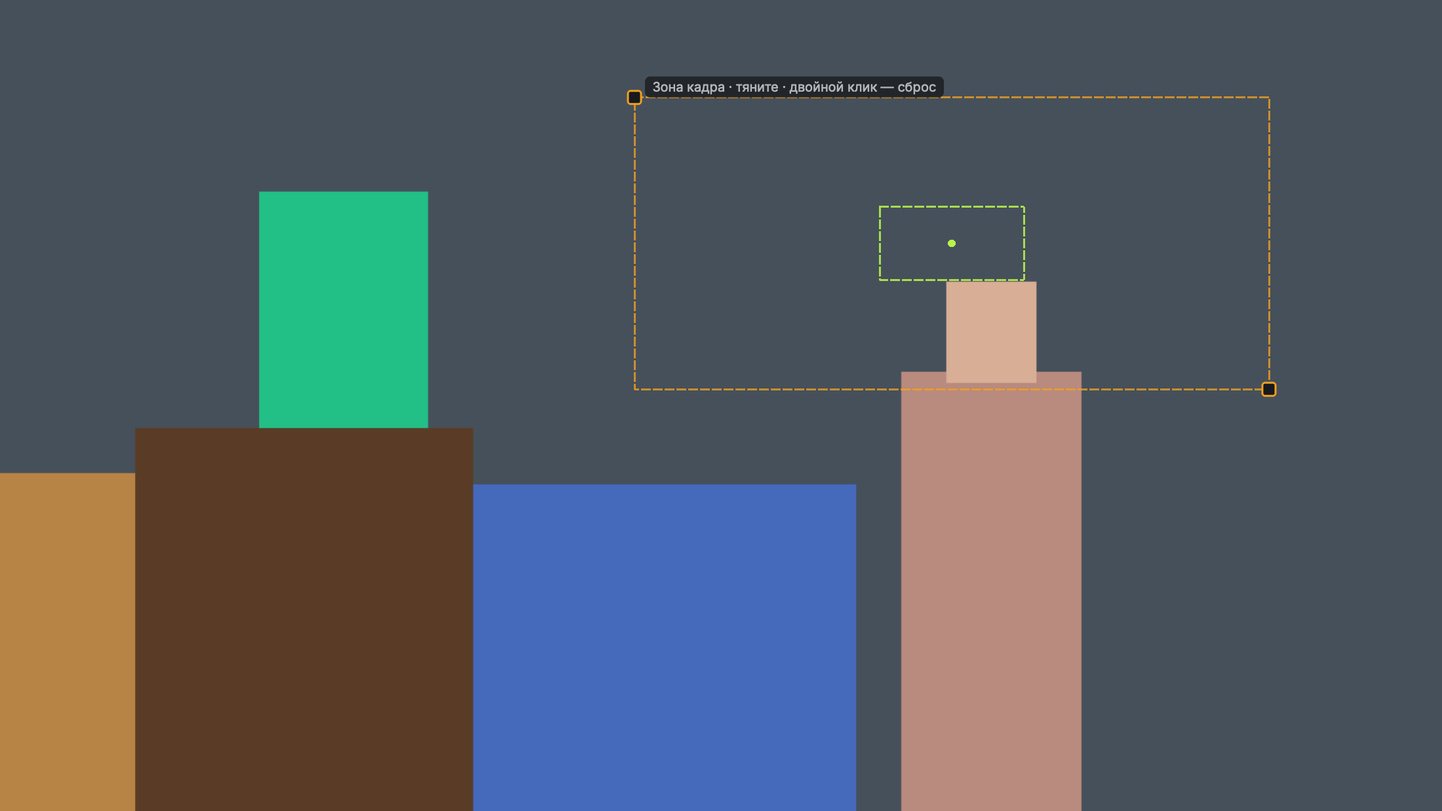
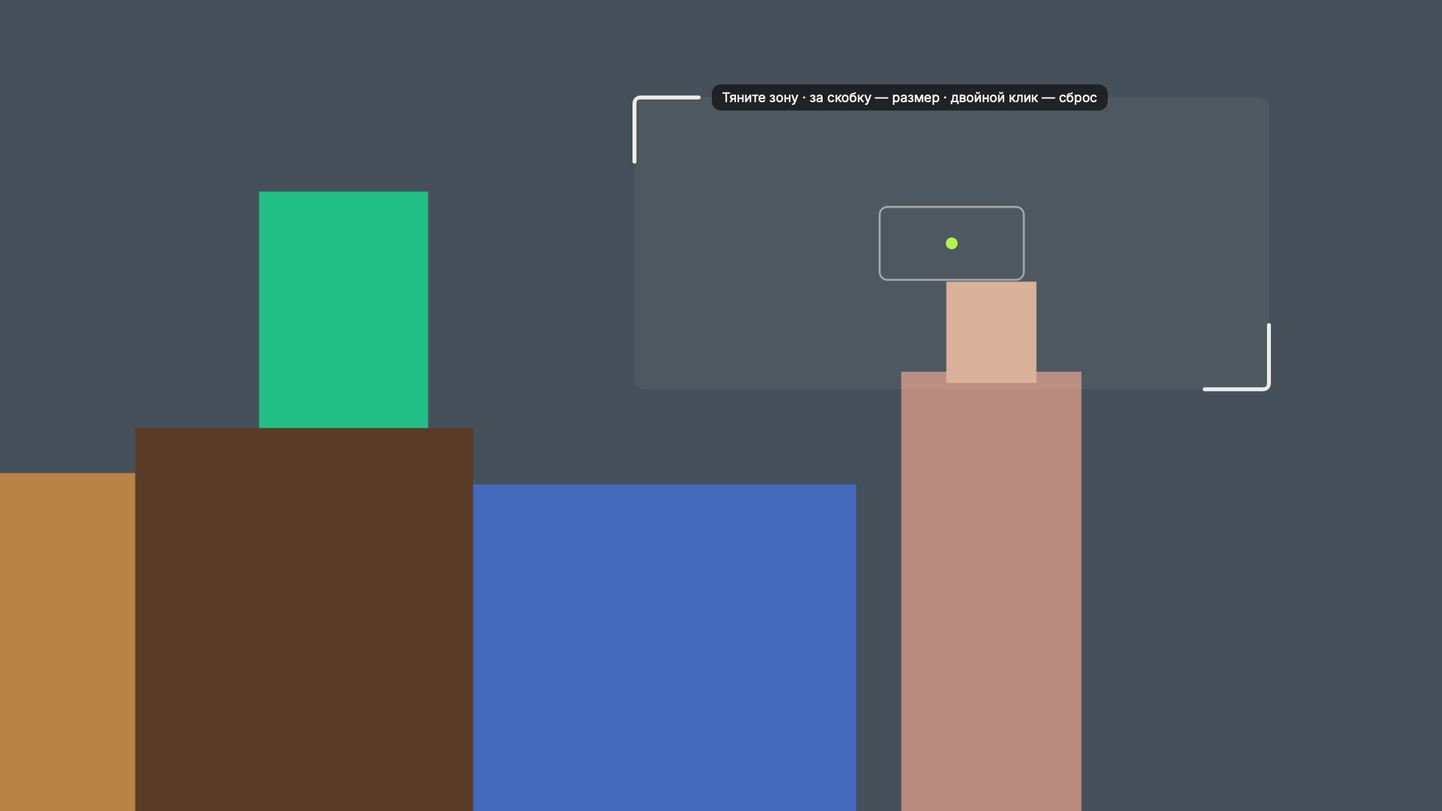
feat(ui): tracking zone drawn as the brand mark (white brackets, lime face point); target brackets mirrored (top-right, bottom-left)

diff --git a/docs/design/mockups/zone-look.html b/docs/design/mockups/zone-look.html
@@ -1,65 +1,51 @@
 <!DOCTYPE html><html lang="ru"><head><meta charset="utf-8"><title>Вид зоны слежения</title>
 <link href="https://fonts.googleapis.com/css2?family=Inter:wght@400;500;600;700&display=swap" rel="stylesheet">
 <style>
-:root{--bg:#17191D;--surface:#1E2126;--line:#33373E;--white:#F5F5F2;--dim:#B4B8BD;--faint:#858A91;--lime:#B7F34A;--lost:#F0A020}
+:root{--bg:#17191D;--surface:#1E2126;--line:#33373E;--white:#F5F5F2;--dim:#B4B8BD;--faint:#858A91;--lime:#B7F34A}
 *{box-sizing:border-box}body{margin:0;background:#0E0F12;color:var(--white);font-family:Inter,system-ui,sans-serif;padding:16px 18px;font-size:13px}
 h1{font-size:18px;margin:0 0 4px}.sub{color:var(--dim);font-size:12.5px;margin:0 0 14px;line-height:1.45;max-width:1150px}
-.grid{display:grid;grid-template-columns:repeat(2,minmax(0,560px));gap:22px}
+.logo{display:inline-flex;align-items:center;gap:10px;background:var(--surface);border:1px solid var(--line);border-radius:10px;padding:8px 14px;margin-bottom:16px;color:var(--dim);font-size:12.5px}
+.grid{display:grid;grid-template-columns:minmax(0,900px);gap:22px}
 .card h2{font-size:14px;margin:0 0 6px;display:flex;gap:8px;align-items:center}
 .ncall{display:inline-flex;width:20px;height:20px;border-radius:50%;background:#FFD43B;color:#111;font:700 11px Inter;align-items:center;justify-content:center;flex:none}
 .v{position:relative;width:100%;aspect-ratio:16/9;border-radius:8px;overflow:hidden;background:linear-gradient(180deg,#56606a,#4b545d 60%,#3a4047)}
-.v .pr{position:absolute}
+.v svg{position:absolute;inset:0;width:100%;height:100%}
 .note{color:var(--dim);font-size:12.5px;line-height:1.45;margin-top:6px}
-.tag{position:absolute;background:var(--lime);color:var(--bg);font-weight:700;font-size:11px;padding:1px 6px;border-radius:4px}
-.br{position:absolute}.br:before,.br:after{content:"";position:absolute;width:16px;height:16px;border:2.5px solid var(--lime)}
-.br:before{left:0;top:0;border-right:0;border-bottom:0}.br:after{right:0;top:0;border-left:0;border-bottom:0}
-.hint{position:absolute;left:10px;bottom:10px;background:rgba(23,25,29,.88);border:1px solid var(--line);border-radius:6px;padding:4px 8px;font-size:11.5px;color:var(--dim)}
-.v:not(:hover) .onhover{display:none}
 .choice{display:inline-flex;margin:14px 8px 0 0;padding:8px 14px;border-radius:999px;border:1px solid var(--line);color:var(--dim)}
 </style></head><body>
-<h1>Как показывать зону слежения на видео</h1>
-<p class="sub">Сейчас (слева сверху): две пунктирные рамки — лаймовая и оранжевая — и точка; рамка «мёртвой зоны» того же лаймового цвета, что и «ВЕДУ», и спорит с ней. Ниже три спокойных варианта. <b>Наведите мышь на картинку</b> — так выглядит, когда зону берут, чтобы тянуть.</p>
+<h1>Зона слежения — нашим знаком</h1>
+<p class="sub">Берём знак программы как есть: <b>две встречные скруглённые скобки — это зона</b>, <b>лаймовая точка — где камера держит лицо</b>. Ни пунктира, ни второго цвета: оранжевый у нас значит «ищу», лайм — только точка и «ВЕДУ». Внутренняя (мёртвая) зона — тонкий скруглённый контур вокруг точки: пока лицо в нём, камера стоит.</p>
+<div class="logo"><svg width="34" height="34" viewBox="0 0 120 120"><g fill="none" stroke="#F5F5F2" stroke-width="9" stroke-linecap="round" stroke-linejoin="round"><path d="M31 58V42c0-6.075 4.925-11 11-11h16"/><path d="M62 89h16c6.075 0 11-4.925 11-11V62"/></g><circle cx="60" cy="60" r="10" fill="#B7F34A"/></svg>знак PTZ Tracker — из него и зона</div>
 <div class="grid" id="g"></div>
+<p class="sub" style="margin-top:18px">Размеры зон и точка — те же, что сейчас; меняется только рисунок. Перетаскивание как договорились: тянете за любое место зоны, за скобку — размер, двойной клик — сброс.</p>
 <script>
-// одна и та же сцена: человек справа от центра, цель «ВЕДУ», зона у точки лица
-const scene=`<div class="pr" style="left:0;top:60%;width:9%;height:40%;background:#b88445"></div>
-<div class="pr" style="left:9%;top:42%;width:23%;height:58%;background:#5a3c26"></div>
-<div class="pr" style="left:18%;top:17%;width:11%;height:25%;background:#22bf86"></div>
-<div class="pr" style="left:32%;top:60%;width:24%;height:40%;background:#4569bb"></div>
-<div class="pr" style="left:61%;top:49%;width:6%;height:10%;border-radius:50%;background:#d9ae96"></div>
-<div class="pr" style="left:57.5%;top:60%;width:13%;height:40%;border-radius:12px 12px 0 0;background:#c08d82"></div>
-<div class="br" style="left:55.5%;top:46%;width:17%;height:54%"></div><div class="tag" style="left:56.3%;top:47.5%">ВЕДУ</div>`;
-// зона: точка лица (50 %, 25 %), мёртвая ±5 % × ±4.5 %, мягкая ±22 % × ±18 %
-const P={x:50,y:25,dx:5,dy:8,sx:22,sy:32};
-const r=(x,y,w,h,st)=>`<div class="pr" style="left:${x}%;top:${y}%;width:${w}%;height:${h}%;${st}"></div>`;
-const soft=st=>r(P.x-P.sx,P.y-P.sy<0?0:P.y-P.sy,2*P.sx,P.y+P.sy-(P.y-P.sy<0?0:P.y-P.sy),st);
-const dead=st=>r(P.x-P.dx,P.y-P.dy,2*P.dx,2*P.dy,st);
-const dot=(c,s=7)=>`<div class="pr" style="left:calc(${P.x}% - ${s/2}px);top:calc(${P.y}% - ${s/2}px);width:${s}px;height:${s}px;border-radius:50%;background:${c}"></div>`;
-const cross=c=>`<div class="pr" style="left:calc(${P.x}% - 9px);top:calc(${P.y}% - .75px);width:18px;height:1.5px;background:${c}"></div><div class="pr" style="left:calc(${P.x}% - .75px);top:calc(${P.y}% - 9px);width:1.5px;height:18px;background:${c}"></div>`;
-const corners=(c,len=14,w=1.5)=>{const x0=P.x-P.sx,x1=P.x+P.sx,y0=Math.max(0,P.y-P.sy),y1=P.y+P.sy;let s='';
- for(const[x,y,bx,by]of[[x0,y0,'left','top'],[x1,y0,'right','top'],[x0,y1,'left','bottom'],[x1,y1,'right','bottom']]){
-  const L=bx==='left'?`left:${x}%`:`left:calc(${x}% - ${len}px)`,T=by==='top'?`top:${y}%`:`top:calc(${y}% - ${len}px)`;
-  s+=`<div class="pr" style="${L};${T};width:${len}px;height:${len}px;border-${bx}:${w}px solid ${c};border-${by}:${w}px solid ${c}"></div>`}return s};
-const handles=c=>{const x0=P.x-P.sx,x1=P.x+P.sx,y0=Math.max(0,P.y-P.sy),y1=P.y+P.sy;return [[x0,y0],[x1,y1]].map(([x,y])=>`<div class="pr" style="left:calc(${x}% - 5px);top:calc(${y}% - 5px);width:10px;height:10px;border-radius:2px;background:#17191D;border:1.5px solid ${c}"></div>`).join('')};
+const W=1600,H=900;
+// сцена: человек справа от точки, цель «ВЕДУ» — лаймовые скобки по углам (как в программе)
+const scene=`<rect x="0" y="540" width="140" height="360" fill="#b88445"/><rect x="140" y="380" width="370" height="520" fill="#5a3c26"/>
+<rect x="290" y="150" width="180" height="230" fill="#22bf86"/><rect x="510" y="540" width="390" height="360" fill="#4569bb"/>
+<ellipse cx="1030" cy="490" rx="52" ry="56" fill="#d9ae96"/><path d="M920 900V620q0-60 60-60h100q60 0 60 60v280z" fill="#c08d82"/>
+<g fill="none" stroke="#B7F34A" stroke-width="7" stroke-linecap="round"><path d="M895 470v-40h40"/><path d="M1125 430h40v40"/></g>
+<rect x="902" y="438" width="104" height="38" rx="6" fill="#B7F34A"/><text x="954" y="465" text-anchor="middle" font-family="Inter" font-weight="700" font-size="24" fill="#17191D">ВЕДУ</text>`;
+// зона: точка (800, 225), мягкая ±352 × ±288 (обрезана сверху), мёртвая ±80 × ±72
+function zone(st){
+ const cx=st.cx??800,cy=225,sx=352*(st.k??1),sy=200*(st.k??1),dx=80*(st.k??1),dy=60*(st.k??1);
+ const x0=cx-sx,x1=cx+sx,y0=cy-sy,y1=cy+sy,L=Math.min(150,sx*0.45),r=26;
+ const a=st.hover?0.95:0.6, w=st.hover?7:5.5;
+ let s=`<g fill="none" stroke="rgba(245,245,242,${a})" stroke-width="${w}" stroke-linecap="round" stroke-linejoin="round">
+  <path d="M${x0} ${y0+L}V${y0+r}q0-${r} ${r}-${r}H${x0+L}"/>
+  <path d="M${x1-L} ${y1}H${x1-r}q${r} 0 ${r}-${r}V${y1-L}"/></g>
+  <rect x="${cx-dx}" y="${cy-dy}" width="${2*dx}" height="${2*dy}" rx="18" fill="none" stroke="rgba(245,245,242,${st.hover?0.5:0.28})" stroke-width="2.5"/>
+  <circle cx="${cx}" cy="${cy}" r="12" fill="#B7F34A"/>`;
+ if(st.hover){s+=`<rect x="${x0}" y="${y0}" width="${2*sx}" height="${2*sy}" rx="${r}" fill="rgba(245,245,242,.05)"/>`}
+ if(st.plate){const tw=st.plate.length*13.2+36;
+  s+=`<rect x="${x0+L+18}" y="${y0-22}" width="${tw}" height="44" rx="7" fill="rgba(23,25,29,.85)"/>
+  <text x="${x0+L+36}" y="${y0+8}" font-family="Inter" font-size="23" fill="#F5F5F2">${st.plate}</text>`}
+ return s}
 const V=[
- ["Сейчас","",
-  soft("border:1.5px dashed rgba(240,160,32,.85)")+dead("border:1.5px dashed rgba(183,243,74,.9)")+dot("#B7F34A",6),
-  `<div class="onhover">${handles('#F0A020')}<div class="hint" style="top:2%;bottom:auto;left:29%">Зона кадра · тяните · двойной клик — сброс</div></div>`,
-  "Две рамки разного цвета, обе пунктиром. Много линий, лаймовая спорит с «ВЕДУ»."],
- ["A","Видоискатель",
-  corners('rgba(245,245,242,.55)')+dead("background:rgba(245,245,242,.08);border-radius:3px")+cross('rgba(245,245,242,.9)'),
-  `<div class="onhover">${soft("border:1px solid rgba(245,245,242,.35)")}${handles('#F5F5F2')}<div class="hint">Тяните зону · за уголок — размер · двойной клик — сброс</div></div>`,
-  "Мягкая зона — только уголки, как в видоискателе камеры. Мёртвая — лёгкая подсветка без линий. Точка лица — тонкий крестик. Всё белое: лайм остаётся только у «ВЕДУ». При наведении — тонкая рамка и ручки."],
- ["B","Только крестик",
-  cross('rgba(245,245,242,.9)'),
-  `<div class="onhover">${corners('rgba(245,245,242,.55)')}${dead("background:rgba(245,245,242,.08);border-radius:3px")}${handles('#F5F5F2')}<div class="hint">Тяните зону · за уголок — размер · двойной клик — сброс</div></div>`,
-  "В обычной работе на видео только крестик «здесь будет лицо». Зоны появляются, когда наводите мышь, — чтобы двигать. Самая чистая картинка."],
- ["C","Затемнение по краям",
-  `<div class="pr" style="inset:0;background:rgba(0,0,0,.28);clip-path:polygon(0 0,100% 0,100% 100%,0 100%,0 0,${P.x-P.sx}% 0,${P.x-P.sx}% ${P.y+P.sy}%,${P.x+P.sx}% ${P.y+P.sy}%,${P.x+P.sx}% 0,${P.x-P.sx}% 0)"></div>`+cross('rgba(245,245,242,.9)'),
-  `<div class="onhover">${soft("border:1px solid rgba(245,245,242,.35)")}${dead("background:rgba(245,245,242,.08)")}${handles('#F5F5F2')}<div class="hint">Тяните зону · за уголок — размер · двойной клик — сброс</div></div>`,
-  "Вне мягкой зоны кадр чуть притемнён — видно, где камера «держит» человека, без линий. Минус: затемнение мешает оценивать картинку для эфира."],
+ ["1","Обычно",{} ,"Знак во весь размер зоны. Скобки полупрозрачные — видно картинку под ними; точка — лаймовая, как в логотипе."],
+ ["2","Навели мышь",{hover:true,plate:"Тяните зону · за скобку — размер · двойной клик — сброс"},"Скобки становятся ярче, зона чуть подсвечивается — понятно, что её можно взять. Подсказка — нашей плашкой поверх видео (графит 85 %, скругление 7)."],
+ ["3","Тянут",{hover:true,cx:640,plate:"Лицо: 40 % · 25 %"},"Зона едет за мышью, на плашке — где будет лицо. Камера плавно доезжает, слежение не выключается."],
 ];
-document.getElementById('g').innerHTML=V.map(([n,t,base,hov,txt])=>`<div class="card"><h2>${n==='Сейчас'?'':`<span class="ncall">${n}</span>`}${n==='Сейчас'?'Сейчас':t}</h2><div class="v">${scene}${base}${hov}</div><div class="note">${txt}</div></div>`).join('');
+document.getElementById('g').innerHTML=V.map(([n,t,st,txt])=>`<div class="card"><h2><span class="ncall">${n}</span>${t}</h2><div class="v"><svg viewBox="0 0 ${W} ${H}" preserveAspectRatio="xMidYMid slice">${scene}${zone(st)}</svg></div><div class="note">${txt}</div></div>`).join('');
 </script>
-<p class="sub" style="margin-top:18px"><b style="color:var(--white)">Мой выбор — A:</b> рамки видно всегда (оператор понимает, когда камера тронется), но они не спорят с картинкой и с «ВЕДУ». Если хочется совсем чисто — B.</p>
 </body></html>

diff --git a/src/ptztracker/ui/preview.py b/src/ptztracker/ui/preview.py
@@ -51,7 +51,7 @@ class PreviewWidget(QWidget):
     click_guard: Callable[[], bool] | None = None  # False — клик не выбирает человека
     zone_scale_of: Callable[[], float] | None = None  # масштаб сохранённой зоны этой камеры (по умолчанию 1)
     DRAG_PX = 6  # меньше — это клик (выбор человека), больше — перенос зоны
-    HANDLE_PX = 9  # уголок мягкой зоны ловится в этом радиусе
+    HANDLE_PX = 12  # скобка-уголок мягкой зоны ловится в этом радиусе
 
     def __init__(self, parent=None):
         super().__init__(parent)
@@ -294,44 +294,45 @@ class PreviewWidget(QWidget):
         p.drawText(self.rect(), Qt.AlignCenter | Qt.TextWordWrap, text)
 
     def _paint_zones(self, p: QPainter) -> None:
+        """Зона слежения — знаком программы (макет zone-look.html): мягкая зона — две встречные скобки,
+        мёртвая — тонкий скруглённый контур, точка лица — лаймовая."""
         z = self._zone_rects()
         if z is None:
             return
         soft, dead, pt = z
-        for rect, color in ((soft, qcolor(C.LOST, 200)), (dead, qcolor(C.ON, 220))):
-            pen = QPen(color, 1.5)
-            pen.setStyle(Qt.DashLine)
-            p.setPen(pen)
-            p.setBrush(Qt.NoBrush)
-            p.drawRect(rect)
-        p.setBrush(qcolor(C.ON))
-        p.setPen(Qt.NoPen)
-        p.drawEllipse(pt, 3, 3)
-        if self._hover is None and self._drag is None:
-            return
-        # мышь над зоной: ручки в уголках и ярлык над рамкой (набросок drawer-and-frame.html)
+        live = self._hover is not None or self._drag is not None
+        p.save()
         p.setRenderHint(QPainter.Antialiasing)
-        p.setPen(QPen(qcolor(C.LOST), 1.5))
-        p.setBrush(qcolor(C.BG))
-        for c in (soft.topLeft(), soft.bottomRight()):
-            p.drawRoundedRect(QRectF(c.x() - 5, c.y() - 5, 10, 10), 2, 2)
-        if self._drag is not None:
-            a = self._follower.controller.composition.anchor
-            text = f"Лицо {round(a[0] * 100)} % · {round(a[1] * 100)} %"
-        else:
-            text = "Зона кадра · тяните · двойной клик — сброс"
-        f = QFont(FONT_FAMILY)
-        f.setPointSize(10)
-        p.setFont(f)
-        tw = p.fontMetrics().horizontalAdvance(text) + 12
-        th = p.fontMetrics().height() + 4
-        y = soft.top() - th if soft.top() - th >= 0 else soft.top() + 2
-        plate = QRectF(soft.left() + 8, y, tw, th)
+        if live:  # навели или тянут — зона чуть подсвечена: её можно взять
+            p.setPen(Qt.NoPen)
+            p.setBrush(qcolor(C.TEXT, 13))
+            p.drawRoundedRect(soft, 8, 8)
+        arm = max(10.0, min(60.0, min(soft.width(), soft.height()) * 0.22))
+        paint_brackets(p, soft, qcolor(C.TEXT, 240 if live else 150), 3, arm=arm)
+        p.setPen(QPen(qcolor(C.TEXT, 130 if live else 72), 1.5))
+        p.setBrush(Qt.NoBrush)
+        p.drawRoundedRect(dead, 6, 6)
         p.setPen(Qt.NoPen)
-        p.setBrush(qcolor(C.SURFACE, 230))
-        p.drawRoundedRect(plate, 4, 4)
-        p.setPen(qcolor(C.TEXT_DIM))
-        p.drawText(plate, Qt.AlignCenter, text)
+        p.setBrush(qcolor(C.ON))
+        p.drawEllipse(pt, 4.5, 4.5)
+        if live:
+            if self._drag is not None:
+                a = self._follower.controller.composition.anchor
+                text = f"Лицо: {round(a[0] * 100)} % · {round(a[1] * 100)} %"
+            else:
+                text = "Тяните зону · за скобку — размер · двойной клик — сброс"
+            f = QFont(FONT_FAMILY)
+            f.setPointSize(10)
+            p.setFont(f)
+            tw = p.fontMetrics().horizontalAdvance(text) + 16
+            th = p.fontMetrics().height() + 8
+            y = soft.top() - th / 2 if soft.top() - th / 2 >= 0 else soft.top() + 4
+            plate = QRectF(soft.left() + arm + 10, y, tw, th)
+            p.setBrush(qcolor(C.BG, 217))  # плашка поверх видео: графит 85 %, скругление 7 (BRANDBOOK §6)
+            p.drawRoundedRect(plate, 7, 7)
+            p.setPen(qcolor(C.TEXT))
+            p.drawText(plate, Qt.AlignCenter, text)
+        p.restore()
 
     def _paint_overlay(self, p: QPainter) -> None:
         self._paint_zones(p)
@@ -347,7 +348,7 @@ class PreviewWidget(QWidget):
             if is_target:
                 lost = r.target_state == "lost"
                 color = LOST_COLOR if lost else TARGET_COLOR
-                paint_brackets(p, rect, color, 3)
+                paint_brackets(p, rect, color, 3, corners=("tr", "bl"))
                 self._label(p, rect, "ЦЕЛЬ ПОТЕРЯНА" if lost else "ВЕДУ", color)
             else:
                 pen = QPen(OTHER_COLOR, 1)

diff --git a/src/ptztracker/ui/widgets.py b/src/ptztracker/ui/widgets.py
@@ -349,25 +349,28 @@ class TrackButton(QPushButton):
         self.setToolTip(tip)
 
 
-def paint_brackets(p: QPainter, rect: QRectF, color: QColor, width: float) -> None:
-    """Рамка цели как в знаке: два скруглённых угла — левый верхний и правый нижний."""
-    arm = max(8.0, min(rect.width(), rect.height()) * 0.3)
+def paint_brackets(p: QPainter, rect: QRectF, color: QColor, width: float,
+                   corners: tuple[str, ...] = ("tl", "br"), arm: float | None = None) -> None:
+    """Скруглённые углы-скобки. По умолчанию — как в знаке: левый верхний и правый нижний (зона слежения);
+    рамка цели «ВЕДУ» — зеркально, правый верхний и левый нижний, чтобы не сливаться с зоной."""
+    if arm is None:
+        arm = max(8.0, min(rect.width(), rect.height()) * 0.3)
     r = min(5.0, arm / 3)
     pen = QPen(color, width)
     pen.setCapStyle(Qt.RoundCap)
     p.save()
     p.setPen(pen)
     p.setBrush(Qt.NoBrush)
-    tl = QPainterPath(QPointF(rect.left(), rect.top() + arm))
-    tl.lineTo(rect.left(), rect.top() + r)
-    tl.quadTo(rect.left(), rect.top(), rect.left() + r, rect.top())
-    tl.lineTo(rect.left() + arm, rect.top())
-    br = QPainterPath(QPointF(rect.right(), rect.bottom() - arm))
-    br.lineTo(rect.right(), rect.bottom() - r)
-    br.quadTo(rect.right(), rect.bottom(), rect.right() - r, rect.bottom())
-    br.lineTo(rect.right() - arm, rect.bottom())
-    p.drawPath(tl)
-    p.drawPath(br)
+    for c in corners:
+        x = rect.left() if c[1] == "l" else rect.right()
+        y = rect.top() if c[0] == "t" else rect.bottom()
+        sx = 1 if c[1] == "l" else -1  # плечо уходит внутрь рамки
+        sy = 1 if c[0] == "t" else -1
+        path = QPainterPath(QPointF(x, y + sy * arm))
+        path.lineTo(x, y + sy * r)
+        path.quadTo(x, y, x + sx * r, y)
+        path.lineTo(x + sx * arm, y)
+        p.drawPath(path)
     p.restore()
 
 

diff --git a/src/ptztracker/ui/help_drawings.py b/src/ptztracker/ui/help_drawings.py
@@ -324,16 +324,12 @@ class MouseDrawing(_Drawing):
         p.drawRoundedRect(QRectF(266, 100, 28, 130), 12, 12)
         lit = self.highlighted
         if lit == "m_target":
-            paint_brackets(p, QRectF(254, 92, 52, 146), qcolor(C.LIME), 3)
-        if lit == "m_zone":
-            pen = QPen(qcolor(C.LOST), 1.5, Qt.DashLine)
-            p.setPen(pen)
-            p.setBrush(Qt.NoBrush)
-            p.drawRect(QRectF(90, 74, 150, 80))
-            p.setPen(QPen(qcolor(C.LOST), 1.5))
-            p.setBrush(qcolor(C.BG))
-            for x, y in ((90, 74), (240, 154)):
-                p.drawRoundedRect(QRectF(x - 5, y - 5, 10, 10), 2, 2)
+            paint_brackets(p, QRectF(254, 92, 52, 146), qcolor(C.LIME), 3, corners=("tr", "bl"))
+        if lit == "m_zone":  # зона слежения — знаком: две скобки и лаймовая точка
+            paint_brackets(p, QRectF(90, 74, 150, 80), qcolor(C.TEXT), 3, arm=24)
+            p.setPen(Qt.NoPen)
+            p.setBrush(qcolor(C.LIME))
+            p.drawEllipse(QPointF(165, 114), 4.5, 4.5)
         if lit == "m_cell":
             p.setPen(QPen(qcolor(C.LIME), 2))
             p.setBrush(Qt.NoBrush)

diff --git a/tests/ui/test_widgets.py b/tests/ui/test_widgets.py
@@ -248,6 +248,17 @@ def test_brackets_only_at_corners():
     assert img.pixel(89, 14) != lime  # правого верхнего угла нет: две скобки, как в знаке
 
 
+def test_target_brackets_mirror_the_zone():
+    img = QImage(100, 100, QImage.Format_ARGB32)
+    img.fill(0)
+    p = QPainter(img)
+    paint_brackets(p, QRectF(10, 10, 80, 80), qcolor(C.LIME), 3, corners=("tr", "bl"))
+    p.end()
+    lime = qcolor(C.LIME).rgb()
+    assert img.pixel(86, 10) == lime and img.pixel(10, 86) == lime  # «ВЕДУ»: правый верхний и левый нижний
+    assert img.pixel(14, 10) != lime and img.pixel(89, 86) != lime  # углы знака — у зоны слежения
+
+
 def test_brand_mark_paints(qtbot):
     m = BrandMark(24)
     qtbot.addWidget(m)

diff --git a/CHANGELOG.md b/CHANGELOG.md
@@ -6,7 +6,7 @@
 
 ### Добавлено
 - **Ступень скорости L1/R1 видна на значке геймпада** — столбиками, как уровень сигнала: в шапке клетки и в верхней строке; при смене ступени значок на миг подсвечивается. Только когда L1/R1 у геймпада — «предел скорости».
-- **Зону слежения можно двигать мышью прямо на видео.** Тяните пунктирную рамку — меняется место, где камера держит лицо (так вернулись «пояс слева/справа», только точнее); за уголок — размер зон; двойной клик — сброс. Запоминается для каждой камеры и крупности.
+- **Зону слежения можно двигать мышью прямо на видео.** Тяните пунктирную рамку — меняется место, где камера держит лицо (так вернулись «пояс слева/справа», только точнее); за скобку — размер зон; двойной клик — сброс. Запоминается для каждой камеры и крупности. Зона нарисована знаком программы — две белые скобки и лаймовая точка лица, без пунктира; рамка «ВЕДУ» теперь скобками справа сверху и слева снизу, чтобы не сливаться с зоной.
 - **Сцена камеры в быстрых настройках (M / Options):** Full Auto ↔ Manual 1–3. В Full Auto камера сама держит ирис, gain и баланс белого и не даёт их менять — теперь из него можно выйти, не заходя в меню Panasonic. ⚠ Номера сцен взяты из документации Panasonic, на живой камере не сверены.
 - **Выключить камеру из быстрых настроек:** пункт «Выключить камеру» над меню Panasonic — × нужно нажать дважды (защита от случайного нажатия); у камеры в эфире — «В ЭФИРЕ! × ещё раз».
 - **Включить камеру с геймпада:** у камеры в режиме ожидания Options открывает меню с одним пунктом «Включить камеру» — × или →. Раньше меню мелькало и пряталось под заставкой «камера выключена».

diff --git a/docs/BRANDBOOK.md b/docs/BRANDBOOK.md
@@ -66,7 +66,8 @@
 - **Плашки состояния** (5 px): ВЕДУ — лайм; ИЩУ — оранжевый; ВЫКЛ / ОЖИДАНИЕ / БЕЗ АНАЛИЗА — контур `LINE`, текст `TEXT_FAINT`; PGM — сплошной красный; PVW — зелёный контур.
 - **Клавиша-подсказка:** `RAISED`, рамка `LINE`, 10,5 px, 600.
 - **Батарейка геймпада:** процент внутри, как в iOS; заливка белая, ≤ 20 % оранжевая, ≤ 10 % красная, заряжается — лаймовая с молнией.
-- **Рамка цели на видео:** две лаймовые скобки по углам (как знак), не прямоугольник.
+- **Рамка цели на видео:** две лаймовые скобки — правый верхний и левый нижний угол (зеркально знаку), не прямоугольник.
+- **Зона слежения на видео** — сам знак: мягкая зона — две белые скобки (левый верхний и правый нижний, 60 % непрозрачности, при наведении — полностью), мёртвая — тонкий скруглённый контур, точка лица — лаймовая. Без пунктира и оранжевого. Макет — `docs/design/mockups/zone-look.html`.
 - **Плашки поверх видео:** `BG` с прозрачностью 85 %, скругление 7.
 - **Плитка номера камеры** (18 px, скругление 5, 11 px жирный) — одна везде: шапка клетки, «Сводка», «Положение», «Графики», полоска «1 камера», пресеты. Цвет — эфир: PGM `PGM` с белой цифрой, PVW `PVW` с графитовой; без эфира у выбранной — белая, у остальных `RAISED_HI`.
 - **Переключатель «▦ 4 / ▢ 1»:** две половинки с общей рамкой `LINE`; выбранная — белая заливка, графитовый текст.
